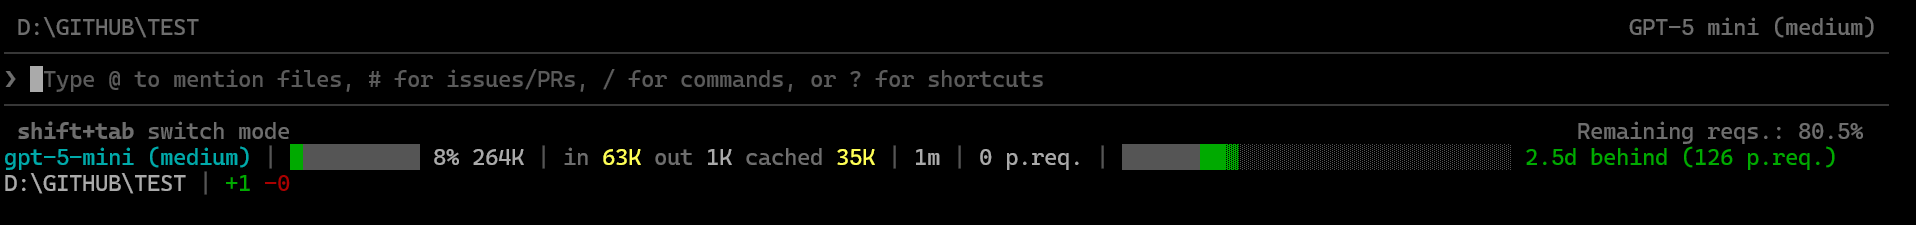
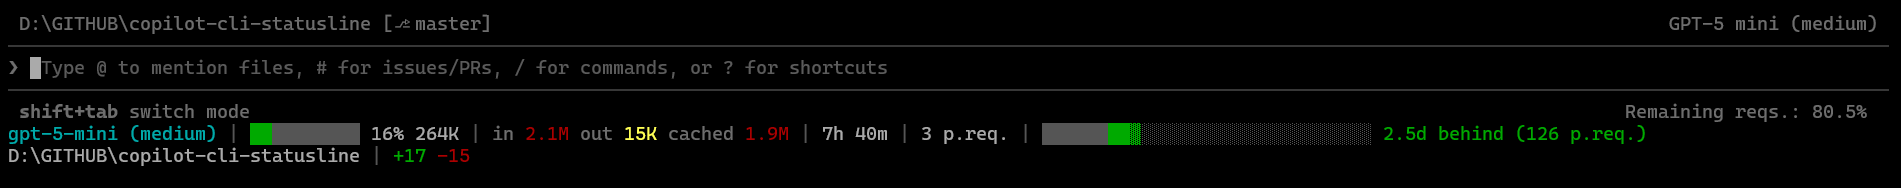
Update status line colors and docs

diff --git a/README.md b/README.md
@@ -19,7 +19,7 @@ The third line is available for any extra segments you want, but it is **disable
 The default layout is:
 
 ```text
-gpt-5.4 (high) | [bar chart] 22% 400K | in 1.7M out 27K cached 350K | 54m | 5 p.req. | Quota: [chart - quota pace tracker] 3.2d behind (160 p.req.)
+gpt-5.4 (high) | [bar chart] 22% 400K | in 1.7M out 27K cached 350K | 54m | 5 p.req. | [chart - quota pace tracker] 3.2d behind (160 p.req.)
 D:\GITHUB\my-project | +695 -146
 ```
 
@@ -29,7 +29,7 @@ D:\GITHUB\my-project | +695 -146
 
 | Segment | What it tells you | Source field(s) | Notes |
 |---------|-------------------|-----------------|-------|
-| **Model** | Which model is answering right now | `model.display_name`, fallback `model.id` | Shown in cyan |
+| **Model** | Which model is answering right now | `model.display_name`, fallback `model.id` | Uses the terminal's default text color |
 | **Context usage** | How full the current context window is | `context_window.used_percentage`, `context_window.context_window_size` | Renders a 10-cell bar, rounded percent, and compact size |
 | **Tokens** | How many input, output, and cached tokens the session has spent so far | `context_window.total_input_tokens`, `context_window.total_output_tokens`, `context_window.total_cache_read_tokens`, `context_window.total_cache_write_tokens` | Shows `in`, `out`, and `cached` totals; `cached` = read + write |
 | **Duration** | How long the session has been running | `cost.total_duration_ms` | Rounded to whole minutes; hidden under 30 seconds |
@@ -41,7 +41,7 @@ D:\GITHUB\my-project | +695 -146
 | Segment | What it tells you | Source field(s) | Notes |
 |---------|-------------------|-----------------|-------|
 | **Path** | Which folder Copilot currently considers the working directory | `cwd`, fallback `workspace.current_dir` | Uses `Get-Location` if neither is present |
-| **Lines changed** | How many lines were added and removed during this session | `cost.total_lines_added`, `cost.total_lines_removed` | Shows green `+N` and red `-N` |
+| **Lines changed** | How many lines were added and removed during this session | `cost.total_lines_added`, `cost.total_lines_removed` | Shows green `+N` and bright red `-N` |
 
 ### Line 3 - Optional Extra Line
 
@@ -132,7 +132,7 @@ Today is **white only when on pace**. When usage is behind or ahead, the today b
 
 When the Copilot quota API returns `entitlement`, the pace label also includes a premium request estimate such as `(160 p.req.)`. For **behind**, that number represents requests still available relative to calendar pace; for **ahead**, it represents how many premium requests are already over pace.
 
-If the quota API is unavailable, the script falls back to a dim `Quota: day/month` indicator.
+If the quota API is unavailable, the script falls back to a dim `day/month` indicator after the quota calendar.
 
 ## Color Rules
 
@@ -154,7 +154,7 @@ If the quota API is unavailable, the script falls back to a dim `Quota: day/mont
   </tr>
   <tr>
     <td>Token values</td>
-    <td>🟡 bright yellow at 10K+, 🟠 yellow at 100K+, 🔴 red at 1M+</td>
+    <td>🟡 bright yellow at 10K+, 🟠 yellow at 100K+, 🔴 bright red at 1M+, dark red at 10M+</td>
     <td><code>in 27K</code>, <code>in 174K</code>, <code>in 1.7M</code></td>
   </tr>
   <tr>
@@ -164,7 +164,7 @@ If the quota API is unavailable, the script falls back to a dim `Quota: day/mont
   </tr>
   <tr>
     <td>Lines changed</td>
-    <td>Added lines are green; removed lines are red</td>
+    <td>Added lines are green; removed lines are bright red</td>
     <td><code>+695 -146</code></td>
   </tr>
 </table>
